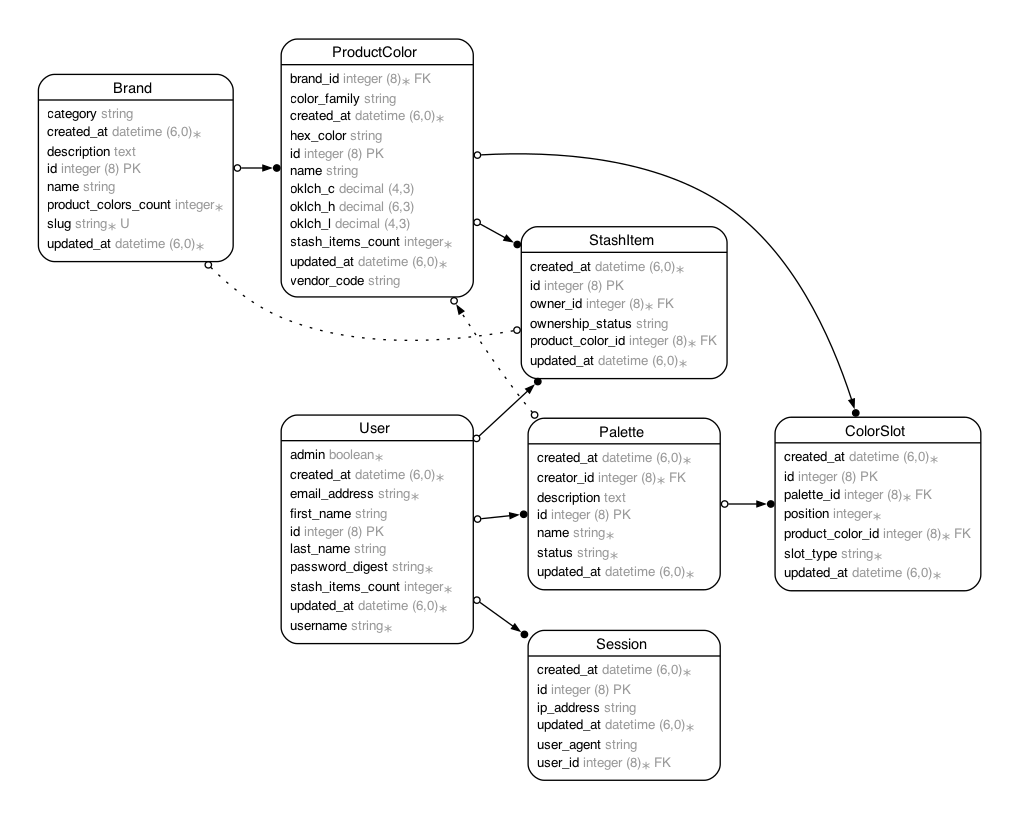
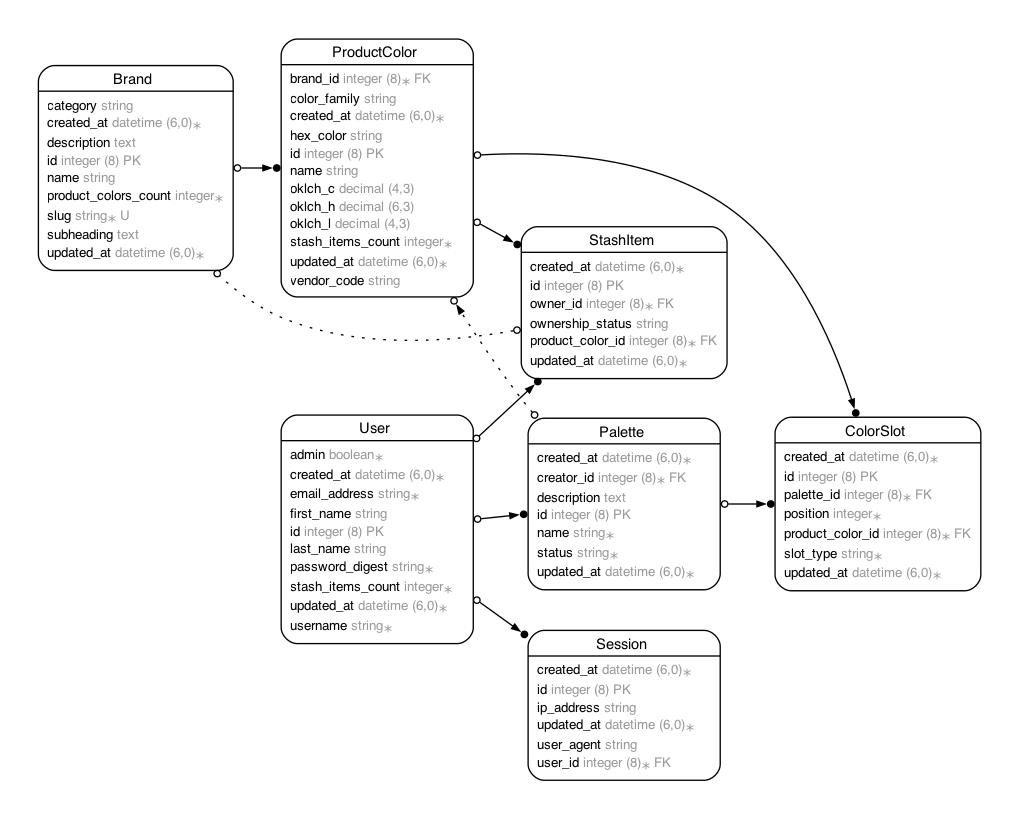
add subheading column to Brands table

Changed region(s): [[0.0304, 0.0611, 0.2434, 0.3358]]

diff --git a/db/schema.rb b/db/schema.rb
@@ -10,7 +10,7 @@
 #
 # It's strongly recommended that you check this file into your version control system.
 
-ActiveRecord::Schema[8.0].define(version: 2026_01_05_152224) do
+ActiveRecord::Schema[8.0].define(version: 2026_01_12_163254) do
   # These are extensions that must be enabled in order to support this database
   enable_extension "pg_catalog.plpgsql"
 
@@ -22,7 +22,9 @@ ActiveRecord::Schema[8.0].define(version: 2026_01_05_152224) do
     t.string "slug"
     t.string "category", default: "general"
     t.text "description"
+    t.text "subheading"
     t.index ["category"], name: "index_brands_on_category"
+    t.index ["created_at"], name: "index_brands_on_created_at"
     t.index ["slug"], name: "index_brands_on_slug", unique: true
   end
 
@@ -33,6 +35,7 @@ ActiveRecord::Schema[8.0].define(version: 2026_01_05_152224) do
     t.datetime "updated_at", null: false
     t.string "slot_type", default: "main", null: false
     t.integer "position", default: 0, null: false
+    t.index ["created_at"], name: "index_color_slots_on_created_at"
     t.index ["palette_id", "product_color_id"], name: "index_color_slots_on_palette_id_and_product_color_id", unique: true
     t.index ["palette_id", "slot_type", "position"], name: "index_color_slots_on_palette_id_and_slot_type_and_position"
     t.index ["palette_id"], name: "index_color_slots_on_palette_id"
@@ -46,6 +49,7 @@ ActiveRecord::Schema[8.0].define(version: 2026_01_05_152224) do
     t.datetime "created_at", null: false
     t.datetime "updated_at", null: false
     t.string "status", default: "draft", null: false
+    t.index ["created_at"], name: "index_palettes_on_created_at"
     t.index ["status"], name: "index_palettes_on_status"
   end
 
@@ -63,6 +67,7 @@ ActiveRecord::Schema[8.0].define(version: 2026_01_05_152224) do
     t.string "color_family"
     t.index ["brand_id"], name: "index_product_colors_on_brand_id"
     t.index ["color_family"], name: "index_product_colors_on_color_family"
+    t.index ["created_at"], name: "index_product_colors_on_created_at"
     t.index ["oklch_c"], name: "index_product_colors_on_oklch_c"
     t.index ["oklch_h"], name: "index_product_colors_on_oklch_h"
     t.index ["oklch_l"], name: "index_product_colors_on_oklch_l"
@@ -225,6 +230,7 @@ ActiveRecord::Schema[8.0].define(version: 2026_01_05_152224) do
     t.datetime "created_at", null: false
     t.datetime "updated_at", null: false
     t.string "ownership_status"
+    t.index ["created_at"], name: "index_stash_items_on_created_at"
     t.index ["ownership_status"], name: "index_stash_items_on_ownership_status"
     t.index ["product_color_id"], name: "index_stash_items_on_product_color_id"
   end

diff --git a/app/models/brand.rb b/app/models/brand.rb
@@ -8,13 +8,15 @@
 #  name                 :string
 #  product_colors_count :integer          default(0), not null
 #  slug                 :string
+#  subheading           :text
 #  created_at           :datetime         not null
 #  updated_at           :datetime         not null
 #
 # Indexes
 #
-#  index_brands_on_category  (category)
-#  index_brands_on_slug      (slug) UNIQUE
+#  index_brands_on_category    (category)
+#  index_brands_on_created_at  (created_at)
+#  index_brands_on_slug        (slug) UNIQUE
 #
 class Brand < ApplicationRecord
   has_many :product_colors, dependent: :destroy

diff --git a/app/models/color_slot.rb b/app/models/color_slot.rb
@@ -12,6 +12,7 @@
 #
 # Indexes
 #
+#  index_color_slots_on_created_at                             (created_at)
 #  index_color_slots_on_palette_id                             (palette_id)
 #  index_color_slots_on_palette_id_and_product_color_id        (palette_id,product_color_id) UNIQUE
 #  index_color_slots_on_palette_id_and_slot_type_and_position  (palette_id,slot_type,position)

diff --git a/app/models/product_color.rb b/app/models/product_color.rb
@@ -19,6 +19,7 @@
 #
 #  index_product_colors_on_brand_id      (brand_id)
 #  index_product_colors_on_color_family  (color_family)
+#  index_product_colors_on_created_at    (created_at)
 #  index_product_colors_on_oklch_c       (oklch_c)
 #  index_product_colors_on_oklch_h       (oklch_h)
 #  index_product_colors_on_oklch_l       (oklch_l)

diff --git a/app/models/stash_item.rb b/app/models/stash_item.rb
@@ -11,6 +11,7 @@
 #
 # Indexes
 #
+#  index_stash_items_on_created_at        (created_at)
 #  index_stash_items_on_ownership_status  (ownership_status)
 #  index_stash_items_on_product_color_id  (product_color_id)
 #

diff --git a/app/models/palette.rb b/app/models/palette.rb
@@ -12,7 +12,8 @@
 #
 # Indexes
 #
-#  index_palettes_on_status  (status)
+#  index_palettes_on_created_at  (created_at)
+#  index_palettes_on_status      (status)
 #
 # Foreign Keys
 #

diff --git a/db/migrate/20260112163254_add_subheading_to_brands.rb b/db/migrate/20260112163254_add_subheading_to_brands.rb
@@ -1,0 +1,5 @@
+class AddSubheadingToBrands < ActiveRecord::Migration[8.0]
+  def change
+    add_column :brands, :subheading, :text
+  end
+end
